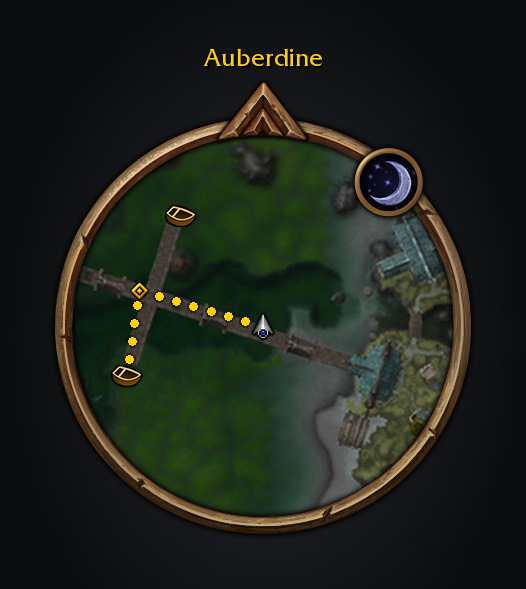
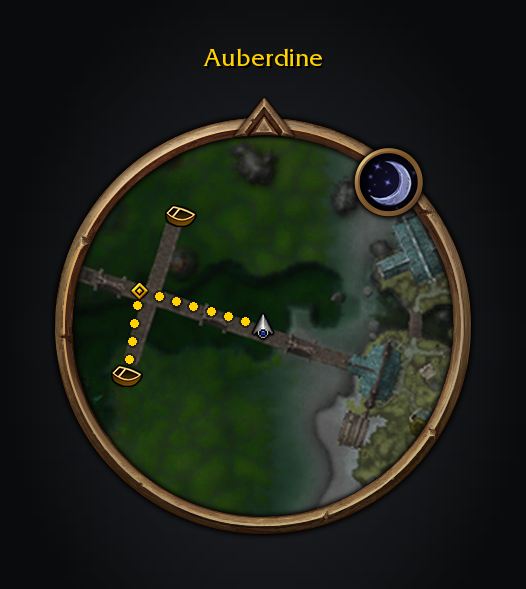
chore: prepare v1.17.0
Moves Unreleased into 1.17.0 (instance entrances, the tracker attach
menu and arrow-key nudge are new features; 70425 data, the shared
tracker host, end-segment walks and the gamepad mitigation), refreshes
the update notice, README, store copy and features, and re-renders the
screenshots: area.png takes quest 92744's largest 70425 area, and
minimap.png follows the 70425 art.

Claude-Session: https://claude.ai/code/session_01JcwULHwLekhyjYKyVykXY3

diff --git a/tools/screenshots_area.py b/tools/screenshots_area.py
@@ -12,7 +12,7 @@ from wowmock import scene
 MAP_ID = 1436
 QUEST_ID, OBJECTIVE = "92744", "0"
 # The area the player stands in, which the crop is taken around.
-STANDING = "575423"
+STANDING = "590790"
 BORDER = "interface/minimap/ui-bonusobjectiveblob-outside.blp"
 BORDER_ALPHA = 192 / 255
 STEPS = 8

diff --git a/CHANGELOG.md b/CHANGELOG.md
@@ -12,14 +12,16 @@ optional `### For addon authors` subsection after a version's player bullets.
 
 ## [Unreleased]
 
-- **Gamepad interface: the world map is left to the game.** Some controller players hit a blocked `SetPreferredGamepadInteractTarget()` error, or a freeze, with this addon, TomTom or Scrap loaded. The game's gamepad layer can blame whichever addon last opened a window, so with the gamepad interface on, Shortest Path no longer opens the world map itself. *Show on map*, a dock line in the tracker and a route end turn the map to the place if it's open, and otherwise ask you to open it. Nearby services points you to the map's own tracking menu. Moving the compass or arrow doesn't take the keyboard either. Nothing changes with mouse and keyboard. If you play with a controller and still see the error, please send `/path report`.
+## [1.17.0] - 2026-10-16
+
+- **Data checked against Forever 1.60.1.70425.** Two Skyborne air routes changed course in this build. The Alliance skyship between Dalaran and Valanaar now takes about 5 seconds longer per round trip, and the Horde zeppelin between Thunder Bluff and Zephras Isle a fraction of a second less, so their departure times follow the new paths. Flight points, flight times, lifts, portals and teleports are unchanged.
+- **Journeys to a dungeon go to its door.** A quest objective, a map click or a guide's stop inside a dungeon or raid used to have no way there, because there's no walking map inside. From outside, the journey now goes to the instance's entrance, called "Enter Deadmines" unless the stop has its own name. The stop counts as reached when you go in, and a guide's next stop inside starts from there. Inside the dungeon nothing changes.
 - **Move the tracker from its own menu.** Right-click the tracker's "Journey to …" line and untick *Attach to quest tracker* to drag the shared Forever column anywhere, as the setting in Guidance does. Tick it again to put it back above your quests. The detached column and its "Forever tracker" heading still hide while nothing is tracked; the setting in Guidance brings it back then. The menu leaves the choice out in combat, when the column can't move.
 - **Nudge the compass and arrow with the arrow keys.** While *Move the compass* or *Move the arrow* is on, rest the pointer on it and each arrow key moves it a little, or ten times as far with Shift. The arrow keys keep walking as normal when the pointer is anywhere else, and in combat.
-- **Journeys to a dungeon go to its door.** A quest objective, a map click or a guide's stop inside a dungeon or raid used to have no way there, because there's no walking map inside. From outside, the journey now goes to the instance's entrance, called "Enter Deadmines" unless the stop has its own name. The stop counts as reached when you go in, and a guide's next stop inside starts from there. Inside the dungeon nothing changes.
 - **Walking lines no longer clip rock or buildings at their ends.** The line on the map and minimap is drawn from exactly where you stand and to exactly where you're going, but only the part between those ends was checked against the walking map. The first and last stretch could cut through a wall or a hillside for a few yards. Each end is now checked too. One that would cross bare ground bends through the nearest walkable spot instead. The time and the route are unchanged. Thanks to fitzforge for the report.
-- **Data checked against Forever 1.60.1.70425.** Two Skyborne air routes changed course in this build. The Alliance skyship between Dalaran and Valanaar now takes about 5 seconds longer per round trip, and the Horde zeppelin between Thunder Bluff and Zephras Isle a fraction of a second less, so their departure times follow the new paths. Flight points, flight times, lifts, portals and teleports are unchanged.
 - **The quest tracker is let go when the Journey has nothing to show.** To fit the Forever sections above your quests, the shared column moves the game's quest tracker. It kept holding it there with no journey, no boat times and nothing from the other Forever addons, or with All Objectives collapsed. That fought EllesmereUI and other UI addons that place the tracker themselves. Now the tracker goes straight back to where the game, Edit Mode or your UI addon put it, and is moved again only once a section has something to show.
 - **Collapsing All Objectives in combat hides the Forever sections at once.** During a fight they stayed on screen until combat ended. A Forever section from another addon that changes in combat now redraws in the space it already has, instead of keeping its old text. The game's quest tracker still isn't moved until combat ends.
+- **Gamepad interface: the world map is left to the game.** Some controller players hit a blocked `SetPreferredGamepadInteractTarget()` error, or a freeze, with this addon, TomTom or Scrap loaded. The game's gamepad layer can blame whichever addon last opened a window, so with the gamepad interface on, Shortest Path no longer opens the world map itself. *Show on map*, a dock line in the tracker and a route end turn the map to the place if it's open, and otherwise ask you to open it. Nearby services points you to the map's own tracking menu. Moving the compass or arrow doesn't take the keyboard either. Nothing changes with mouse and keyboard. If you play with a controller and still see the error, please send `/path report`.
 
 ## [1.16.0] - 2026-10-16
 

diff --git a/docs/features.md b/docs/features.md
@@ -8,15 +8,17 @@ Alt-click the world map to place a destination directly over a Questie icon. Shi
 
 In **Map marks**, scale transport, flight master and minimap icons separately from 25% to 200%. Right-click a flight master icon to mark its path as known or unknown; opening a flight master's map also syncs paths reported by the client.
 
-In **Interface**, turn **Show journey in tracker** and **Show direction arrow** off independently, leaving the map route visible. Choose yards or metres, resize the tracker and compass, give the compass a background, or enable the optional minimap settings button. Turn off **Attach to quest tracker** in Guidance to drag the Forever column by its heading.
+In **Interface**, turn **Show journey in tracker** and **Show direction arrow** off independently, leaving the map route visible. Choose yards or metres, resize the tracker and compass, give the compass a background, or enable the optional minimap settings button. Turn off **Attach to quest tracker** in Guidance, or in the right-click menu of the tracker's "Journey to …" line (out of combat), to drag the Forever column by its heading.
 
-The direction arrow swings smoothly to each new bearing and rests while you stand still. **Move the arrow** and **Arrow scale** in Interface place and size it, together with the cast prompt that takes its place on a Hearthstone or teleport step. While moving the arrow or the compass, hold Shift as you drag to move it a quarter as far as the mouse. **Show the time left under the compass** (off by default) puts the journey's time left beside the distance to your next turn.
+The direction arrow swings smoothly to each new bearing and rests while you stand still. **Move the arrow** and **Arrow scale** in Interface place and size it, together with the cast prompt that takes its place on a Hearthstone or teleport step. While moving the arrow or the compass, hold Shift as you drag to move it a quarter as far as the mouse, or rest the pointer on it and press the arrow keys to nudge it (ten times as far with Shift). The arrow keys walk as usual everywhere else and in combat. **Show the time left under the compass** (off by default) puts the journey's time left beside the distance to your next turn.
 
 **Keep journeys after a reload** in Guidance (off by default) starts a journey you planned yourself (a map click, `/way`, a quest or Nearby services) again after a `/reload`, or when you log back in within 30 minutes. Guides and other addons start their own again, and one that does so first wins.
 
 **Play a sound when you reach the goal** in Alerts (off by default) plays the map's ping when a journey you planned yourself arrives, even with the game in the background. Clearing a journey stays quiet.
 
 `/path report` opens a window with a report already selected: addon and game versions, your character and position, the journey and its steps, your ride, the ride trace when `/path debug` is on, errors caught this session and your other addons. Press Ctrl+C and paste it into a bug report.
+
+With the game's gamepad interface on, Shortest Path never opens the world map itself, nor takes the keyboard: *Show on map*, tracker dock lines and route ends turn a map you have open, or ask you to open one, and Nearby services points to the map's own tracking menu.
 
 Click the current journey step and choose **Complete this step** to advance it. Skipping a Hearthstone leaves it out of plans for that journey. Other steps may return if your actual position still requires them.
 
@@ -32,6 +34,8 @@ With RestedXP installed, **Resume guide** in Guidance or the Journey header menu
   quest. It replans as you move but only switches to a clearly faster way (at least 30 seconds and a tenth of the time left), and stays aboard if you are already riding. **Guide**, on from the start
   of every journey (click the tracker header to turn it off), moves the game's own waypoint marker to where each step ends, the next boat, lift or flight master (or, with *Mark only where steps end* off in `/path`, along the route turn by turn, round walls), and hands your tracked quest back when you finish. To head for a quest, pick **Plan journey** from its right-click menu in the objective
   tracker or quest log, or Shift-click its marker on the map; a finished quest routes to its turn-in.
+  A goal inside a dungeon or raid, which has no walking map, is planned to the instance's entrance from outside
+  (*Enter Deadmines*); going in completes it, and a guide's next stop inside starts from there.
   A journey can start with your Hearthstone, a mage's city teleport (with a Rune of Teleportation), a shaman's
   Astral Recall or a druid's Teleport: Moonglade, after its own icon and named in your game's language:
   *1. Use Hearthstone*. A cooldown counts as waiting, and a jump to another continent adds a few seconds for

diff --git a/README.md b/README.md
@@ -17,7 +17,7 @@ with you.
 
 ## Features
 
-- **Plan a journey.** Shift-click the world map or minimap, or choose *Plan journey* on a quest. Routes combine walking, flights, boats, zeppelins, lifts, the tram, portals and teleports, and replan as you move. *Keep journeys after a reload* in Guidance starts your own journey again after a `/reload`.
+- **Plan a journey.** Shift-click the world map or minimap, or choose *Plan journey* on a quest. Routes combine walking, flights, boats, zeppelins, lifts, the tram, portals and teleports, and replan as you move. A spot inside a dungeon or raid leads to its entrance. *Keep journeys after a reload* in Guidance restarts your own journey after a `/reload`.
   ![Journey steps from Auberdine to Silithus](docs/screenshots/tracker.png)
   The tracker shows each step, with time and distance remaining. Hover the destination's pin on the world map for the same steps, and, with the other faction's routes hidden, whether their boats would be at least two minutes faster.
 - **Follow your guide.** Journeys follow RestedXP's current target by default, without TomTom or a bridge addon; *Resume guide* returns to it after another journey, unless Adventure Guide's RestedXP display leads instead. With TomTom absent, other guides' TomTom waypoints start journeys here.
@@ -54,7 +54,7 @@ Install it from [CurseForge](https://www.curseforge.com/wow/addons/shortest-path
 
 ## Usage
 
-Alt-click the world map to choose a destination over a Questie icon. Shift-click works on empty map space and Shortest Path icons.
+Alt-click the world map to choose a destination over a Questie icon. Shift-click works on empty map space and Shortest Path icons. With the gamepad interface on, Shortest Path never opens the world map itself; it asks you to.
 
 The settings have five pages. **Transport** draws routes, shows the other faction's boats and zeppelins (off by default), and shares departure times. **Guidance** holds journey behaviour: *Resume guide*, *Keep journeys after a reload*, *Minimum Hearthstone saving* and *Attach to quest tracker*. **Map marks** scales each kind of icon from 25% to 200%. **Interface** shows or hides the tracker, arrow and compass, sizes them, and switches to metres. **Alerts** covers the boat warning and the arrival sound. [docs/features.md](docs/features.md) has the detail.
 

diff --git a/docs/curseforge.md b/docs/curseforge.md
@@ -6,10 +6,10 @@ The route settles, the next boat counts down and the compass turns with you.
 
 ## Features
 
-- **Plan the trip.** Combine walking, known flights, boats, zeppelins, lifts, the tram, portals and teleports. Walking routes go around walls, hills and water. Routes replan as you move.
+- **Plan the trip.** Combine walking, known flights, boats, zeppelins, lifts, the tram, portals and teleports. Walking routes go around walls, hills and water, and a dungeon's spot leads to its entrance.
 - **Follow your guide.** RestedXP journeys are on by default, without TomTom or a bridge addon. With TomTom absent, other guides can pass waypoints to Shortest Path. Adventure Guide takes over when its RestedXP display is on.
 - **Choose what you see.** Hide Journey steps or the direction arrow while keeping the map route. Move and scale the arrow, which eases round to each bearing, and add the time left under the compass.
-- **Complete a step.** Click the current journey step and choose *Complete this step*. Skipping a Hearthstone leaves it out for that journey; later plans follow your actual position.
+- **Complete a step.** Click the current journey step and choose *Complete this step*. Skipping a Hearthstone leaves it out for that journey.
 - **Find services and departures.** Map tracking menus offer nearby trainers, repairs, vendors and other services using installed QuestieDB. Dock tooltips show destinations and times, and flight master tooltips list their flights. Ride times improve estimates.
 - **Travel prompts.** Hearthstone and teleport steps show what to cast. Transport sounds and a taskbar flash warn before a boat arrives, and an optional ping marks your arrival. A red corpse route guides ghosts back to their bodies.
 - **Keep your journey.** An option starts your own journey again after a `/reload`.
